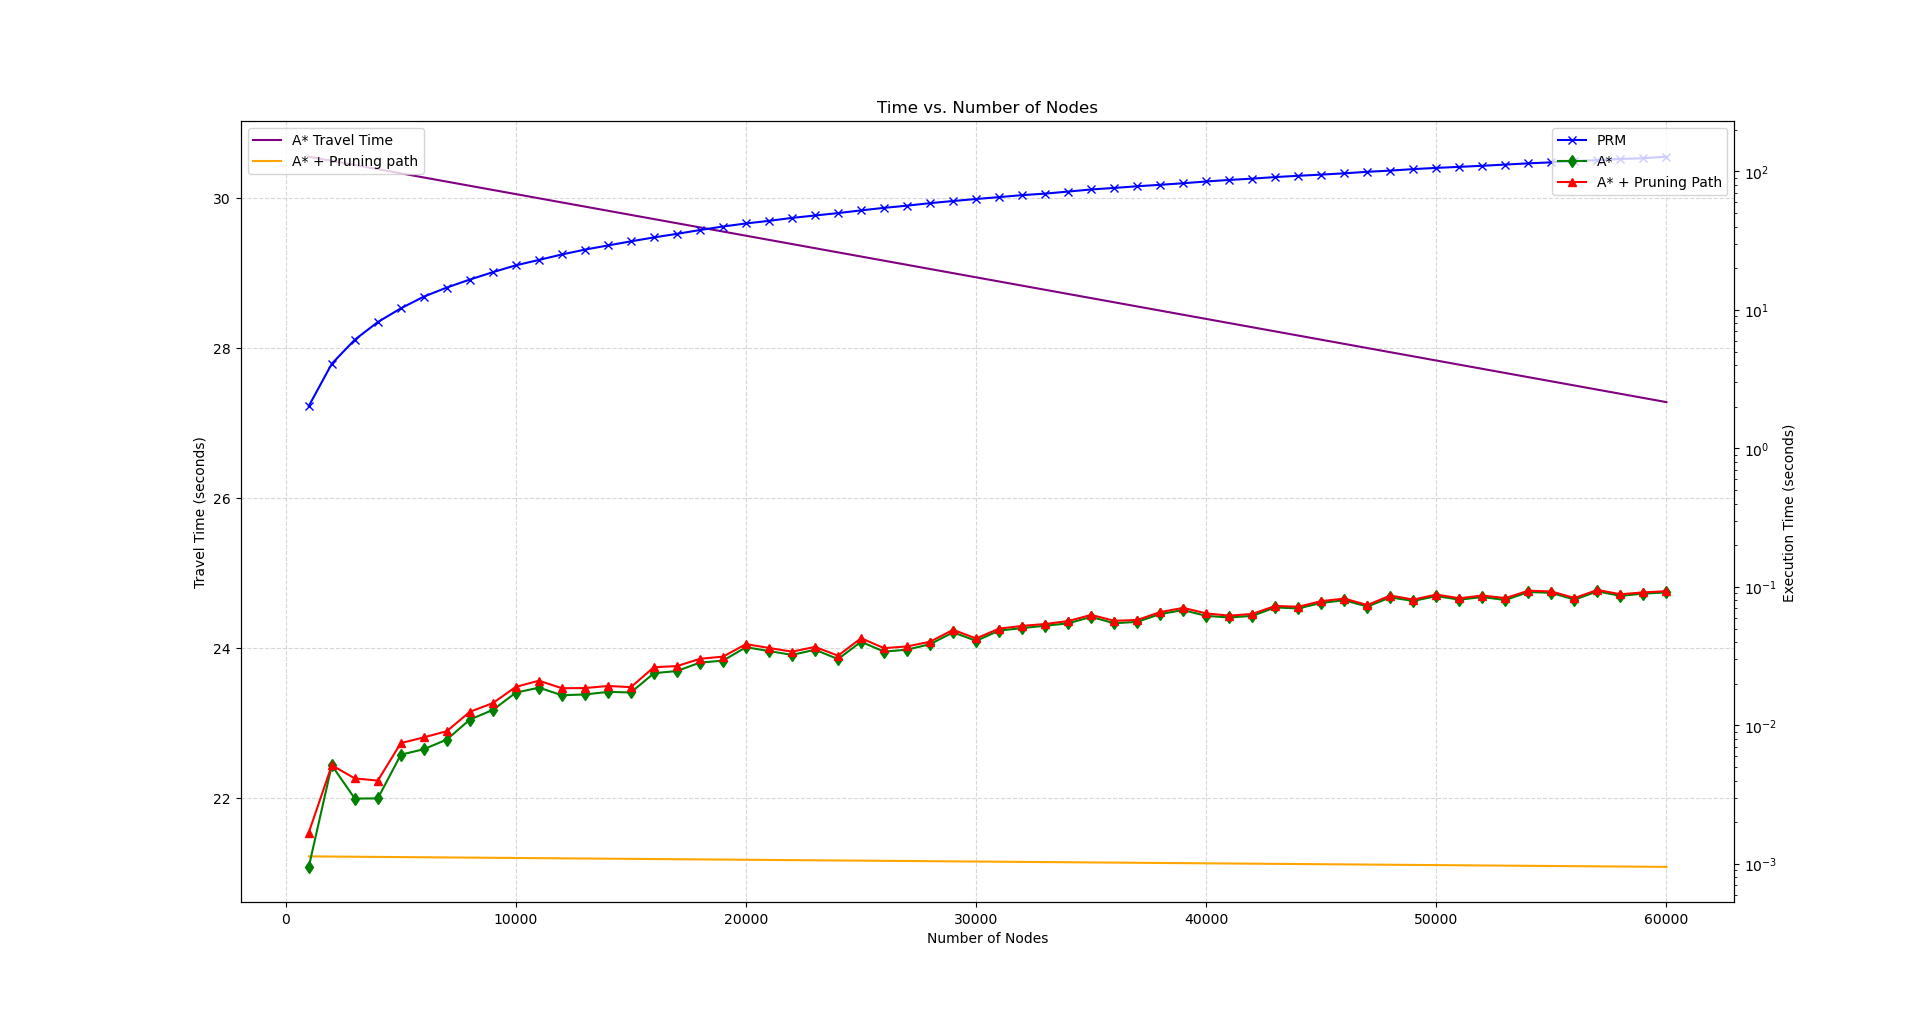
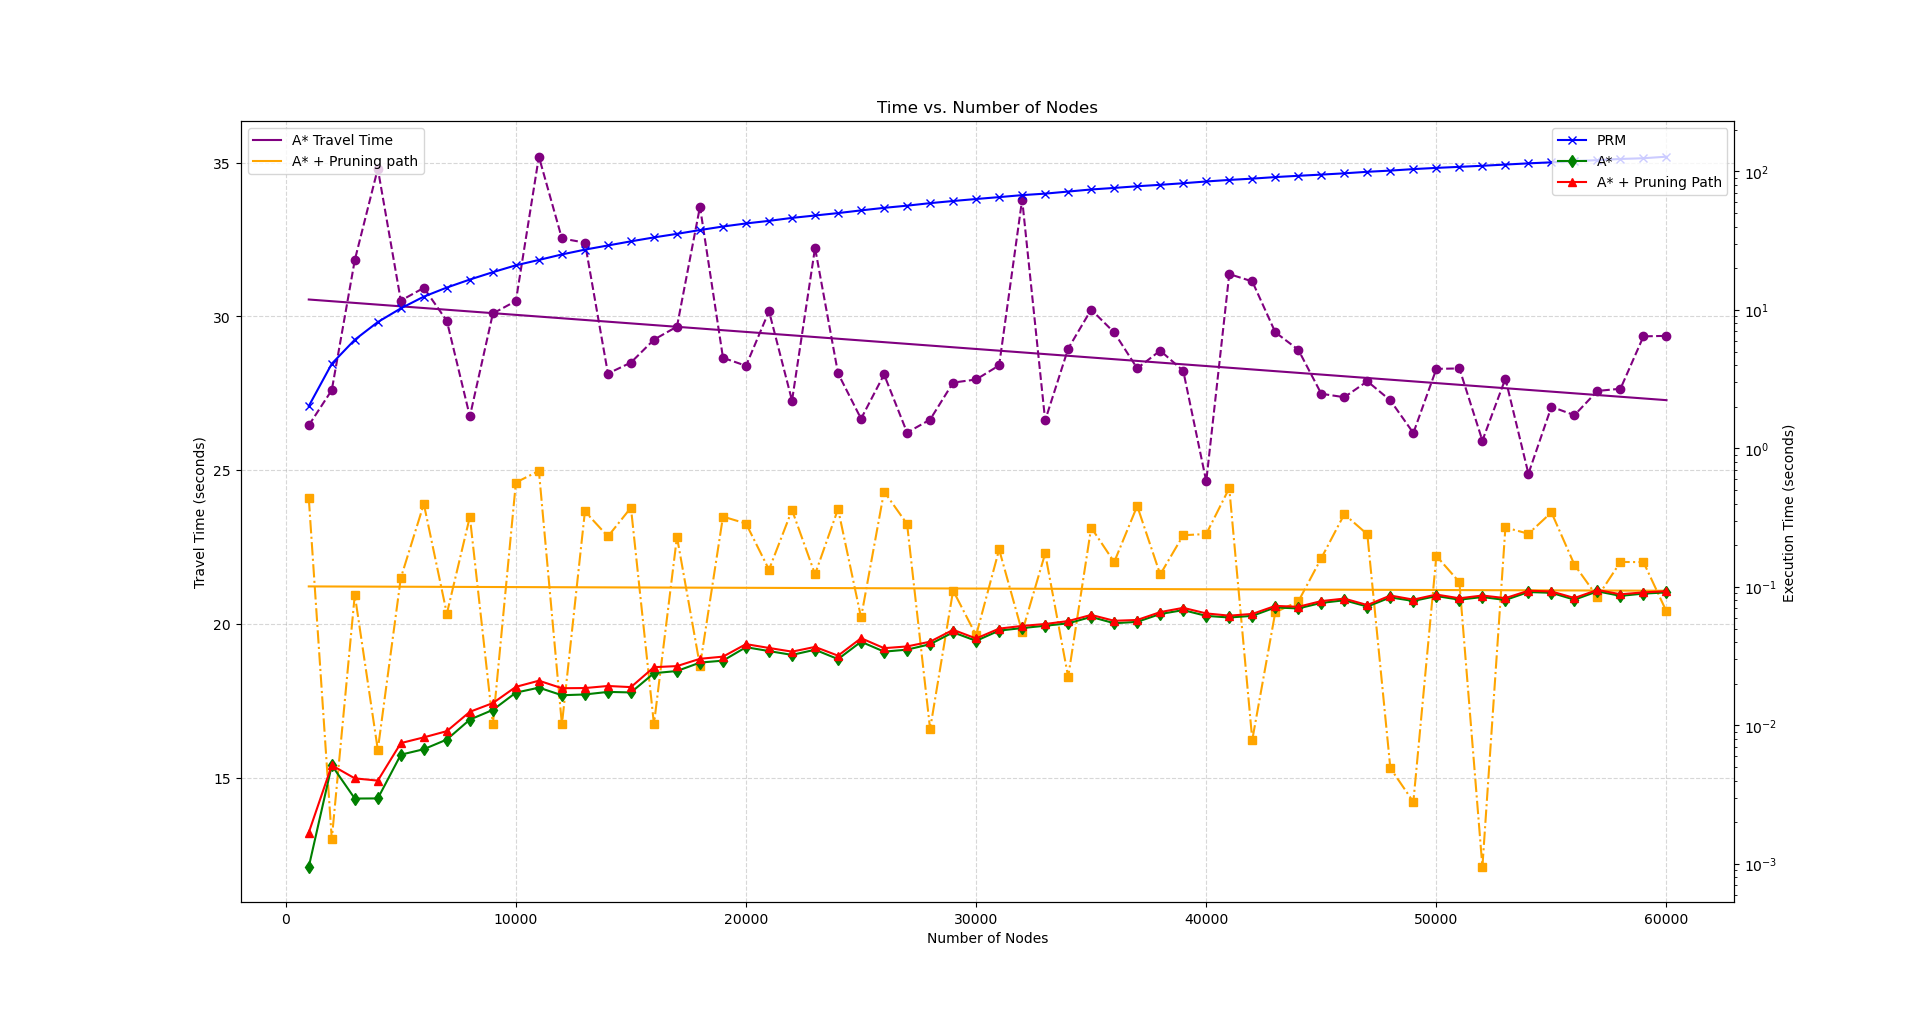
Results

diff --git a/prm/prm/plot2.py b/prm/prm/plot2.py
@@ -40,25 +40,25 @@ poly_sastar = np.poly1d(coefficients_sastar)
 regression_sastar = poly_sastar(x)
 
 # Load timing data from CSV file
-df = pd.read_csv('prm_timing_results.csv')
+df = pd.read_csv('prm_timing_results_60k.csv')
 
 # Create figure and axis for plotting
-fig, ax_left = plt.subplots()
+fig, ax_left = plt.subplots(figsize=(10, 6))  # Adjust figure size
 
 # Left Y-axis (Travel Time) - Plot original data and regression lines
-ax_left.set_ylabel('Travel Time (seconds)', color='black')
+ax_left.set_ylabel('Travel Time (seconds)', color='black', fontsize=30)
 # Original data points
-# ax_left.plot(x, y_astar, color='purple', linestyle='--', marker='o', label='A* Travel Time')
-# ax_left.plot(x, y_sastar, color='orange', linestyle='-.', marker='s', label='SA* Travel Time')
+ax_left.plot(x, y_astar, color='purple', linestyle='--', marker='o')
+ax_left.plot(x, y_sastar, color='orange', linestyle='-.', marker='s')
 # Regression lines
 ax_left.plot(x, regression_astar, color='purple', linestyle='-', label='A* Travel Time')
 ax_left.plot(x, regression_sastar, color='orange', linestyle='-', label='A* + Pruning path')
-ax_left.tick_params(axis='y', labelcolor='black')
+ax_left.tick_params(axis='y', labelcolor='black', labelsize=12)
 
 # Right Y-axis (Timing Metrics) - Semilog Scale remains
 ax_right = ax_left.twinx()
 ax_right.set_yscale('log')
-ax_right.set_ylabel('Execution Time (seconds)', color='black')
+ax_right.set_ylabel('Execution Time (seconds)', color='black', fontsize=30)
 
 num_samples_csv = df['num_samples'].to_numpy()
 sampling_roadmap = (df['sampling_time'] + df['roadmap_time']).to_numpy()
@@ -69,12 +69,12 @@ ax_right.plot(num_samples_csv, sampling_roadmap, color='blue', linestyle='-', ma
 ax_right.plot(num_samples_csv, pathfinding, color='green', linestyle='-', marker='d', label='A*')
 ax_right.plot(num_samples_csv, simplification_pathfinding, color='red', linestyle='-', marker='^', label='A* + Pruning Path')
 
-ax_left.set_xlabel('Number of Nodes')
-plt.title('Time vs. Number of Nodes')
+ax_left.set_xlabel('Number of Nodes', fontsize=30)
+plt.title('Time vs. Number of Nodes', fontsize=30)
 
 # Legends and Grid
-ax_left.legend(loc='upper left', fontsize=10)
-ax_right.legend(loc='upper right', fontsize=10)
+ax_left.legend(loc='upper left', fontsize=14)
+ax_right.legend(loc='upper right', fontsize=14)
 ax_left.grid(True, which='both', linestyle='--', alpha=0.5)
 
 # Show plot

diff --git a/sjtu_drone_control/sjtu_drone_control/fellow_path.py b/sjtu_drone_control/sjtu_drone_control/fellow_path.py
@@ -61,16 +61,16 @@ class FellowPathController(Node):
 
     def compute_velocity_commands(self):
         # Check if error distance is greater than 5.0
-        # if self.error is not None and self.error > 3.0:  # Start slowing down early
-        #     self.desired_linear_vel -= 0.1  # Slow down linear velocity
-        #     self.get_logger().info(f"Slowing down {self.desired_linear_vel}.")
-        #     if self.desired_linear_vel <= 0.0:
-        #         self.desired_linear_vel = 0.0
-        # else:
-        #     self.desired_linear_vel += 0.1
-        #     self.get_logger().info(f"Reset {self.desired_linear_vel}.")
-        #     if self.desired_linear_vel >= self.initial_vel:
-        #         self.desired_linear_vel = self.initial_vel
+        if self.error is not None and self.error > 3.0:  # Start slowing down early
+            self.desired_linear_vel -= 0.1  # Slow down linear velocity
+            self.get_logger().info(f"Slowing down {self.desired_linear_vel}.")
+            if self.desired_linear_vel <= 0.0:
+                self.desired_linear_vel = 0.0
+        else:
+            self.desired_linear_vel += 0.1
+            self.get_logger().info(f"Reset {self.desired_linear_vel}.")
+            if self.desired_linear_vel >= self.initial_vel:
+                self.desired_linear_vel = self.initial_vel
 
         if not self.path_queue or self.odom is None:
             return  # Wait for a path and odometry data to be available

diff --git a/prm/prm/pointcloud_visualize.py b/prm/prm/pointcloud_visualize.py
@@ -16,7 +16,7 @@ class PCDPublisher(Node):
         self.timer = self.create_timer(2.0, self.timer_callback)  # Adjust the publishing rate
         # self.pcd = o3d.io.read_point_cloud("/home/intel/fiverr/md/drone_ws/src/maps/output_map.pcd")  # Adjust the path to your .pcd file
         prm_path = get_package_share_directory('sjtu_drone_bringup')
-        pcd_path=os.path.join(prm_path,'map','output_map.pcd')
+        pcd_path=os.path.join(prm_path,'map','map.pcd')
         self.pcd = o3d.io.read_point_cloud(pcd_path)
 
     def timer_callback(self):

diff --git a/sjtu_drone_bringup/launch/sjtu_drone_bringup.launch.py b/sjtu_drone_bringup/launch/sjtu_drone_bringup.launch.py
@@ -179,12 +179,12 @@ def generate_launch_description():
             name='fellow_path_controller',
             output='screen',
         ),
-        # Node(
-        #     package='prm',
-        #     executable='map_publisher',
-        #     name='map_publisher',
-        #     output='screen',
-        # )
+        Node(
+            package='prm',
+            executable='map_publisher',
+            name='map_publisher',
+            output='screen',
+        )
 
 
 

diff --git a/prm/prm/prm.py b/prm/prm/prm.py
@@ -16,7 +16,7 @@ class PRMNode(Node):
         super().__init__('prm_node')
 
         prm_path = get_package_share_directory('sjtu_drone_bringup')
-        pcd_path=os.path.join(prm_path,'map','output_map.pcd')
+        pcd_path=os.path.join(prm_path,'map','map.pcd')
 
         # Parameters
         self.declare_parameter('pcd_path', pcd_path)

diff --git a/prm/prm/plot.py b/prm/prm/plot.py
@@ -25,7 +25,7 @@ travel_data = {
 travel_df = pd.DataFrame(travel_data)
 
 # Load timing data from CSV file
-df = pd.read_csv('prm_timing_results.csv')
+df = pd.read_csv('prm_timing_results_60k.csv')
 
 # Create figure and axis for plotting
 fig, ax_left = plt.subplots()
